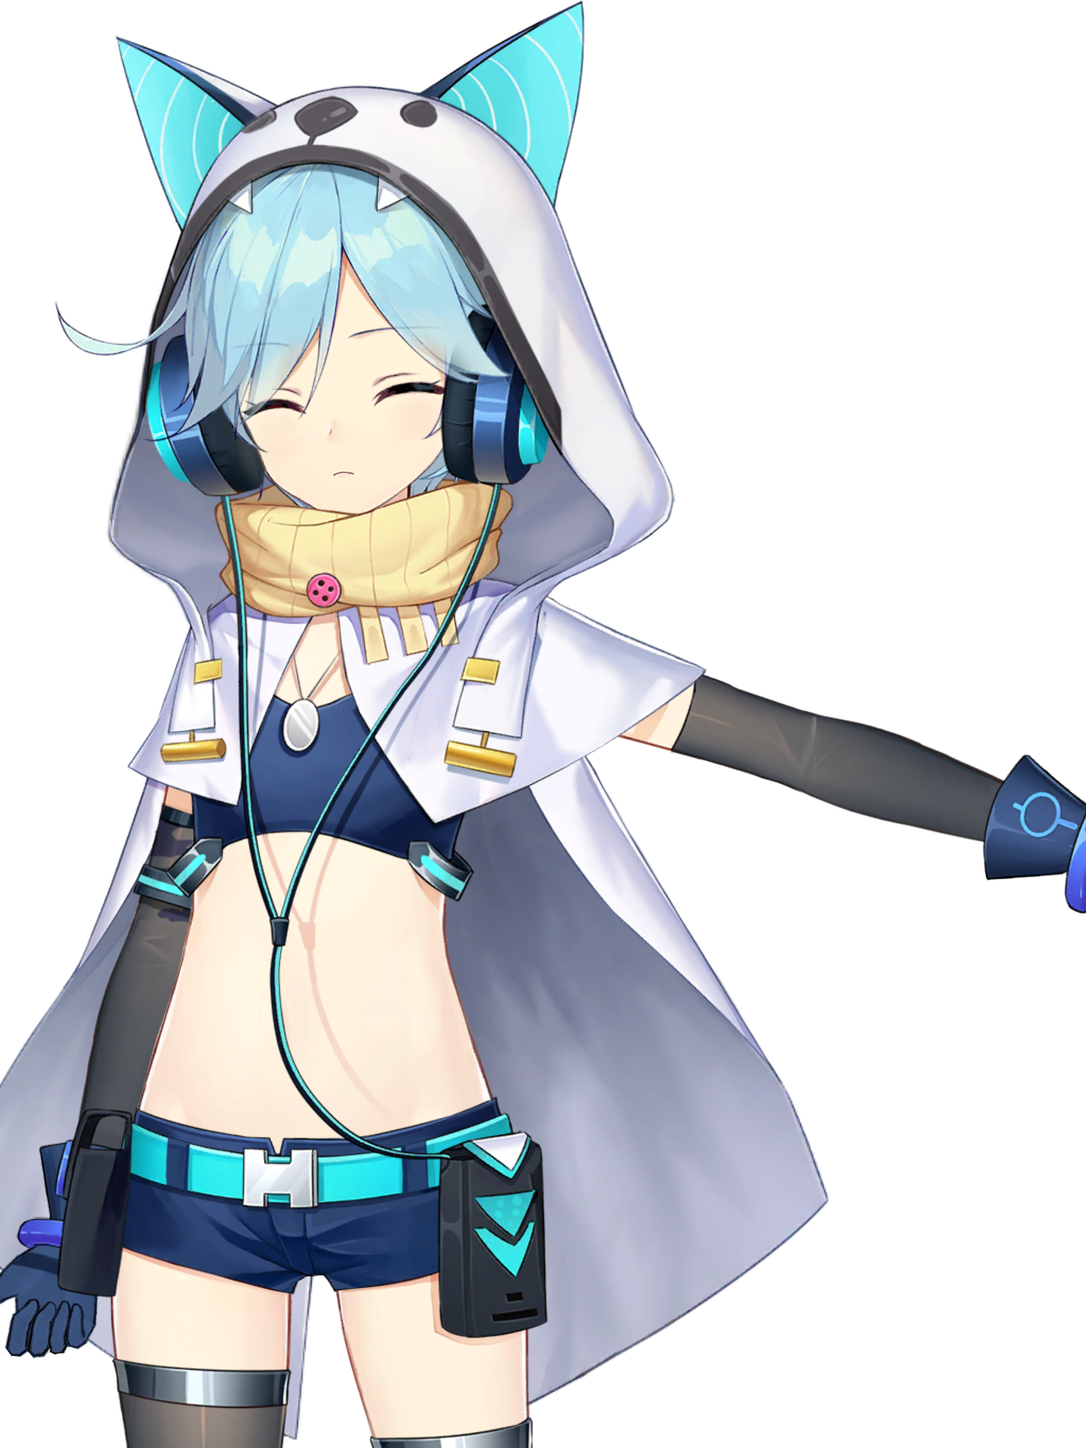
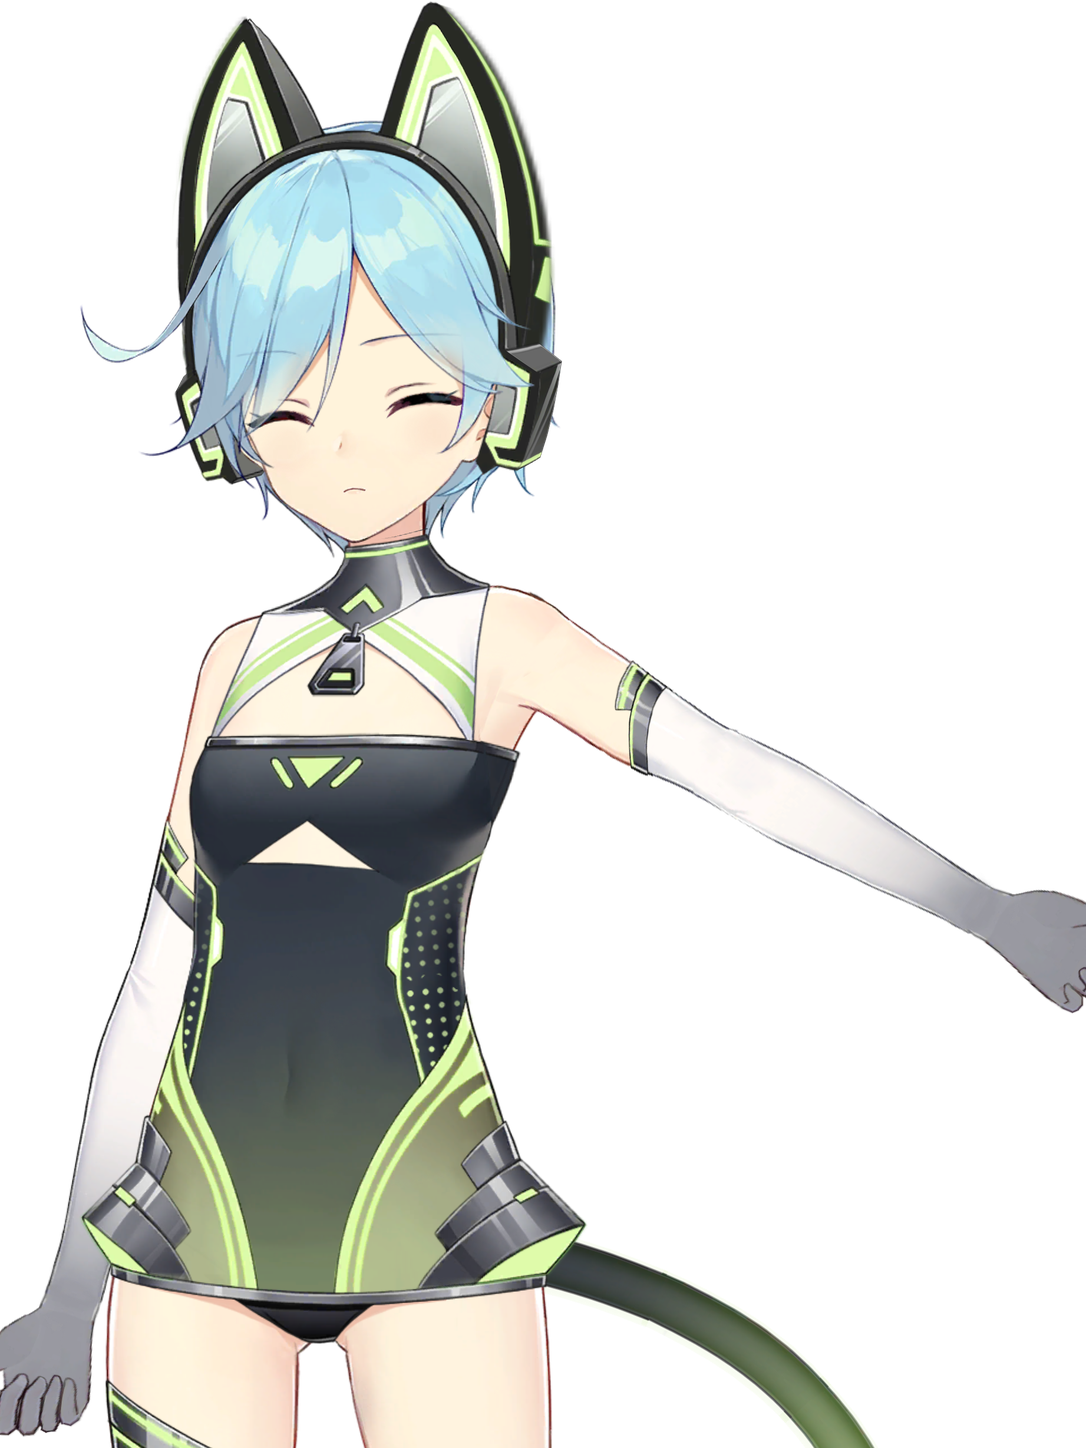
feat(art): 收录 24 套衣柜表，扑爪换第二套猫耳战术装
衣柜表 docs/v4/art/wardrobe.json + 联络表 docs/v4/art/wardrobe.png，素材库.md 新增第十二节。
猫的两张不再共用一套：cat_bust 留 l2d06 连帽衫，cat_paws 换 l2d07 战术猫耳（猫耳耳机＋长尾，招手把手臂真伸出去）。
regions.json 里 cat_paws 的 flower 锚点改记胸前吊牌，eyes/paws 重估。

diff --git a/二次创作/说明/素材库.md b/二次创作/说明/素材库.md
@@ -202,3 +202,46 @@ python tools/plate_cut.py --in out\_lib\plate_cat.png --out out\_lib\try_cat.png
 **按五官对脸的精配还没做**，`art_check` 也会报「位移过大」——先认这条账。
 
 **代价（记在案）**：原片是刻意无脸的三墨剪影，现在是全彩原图、五官清楚，片子「无脸」的设定到此结束。
+
+## 十二、衣柜表（她的 24 套，2026-11-17 收录）
+
+索引与图：`docs/v4/art/wardrobe.json`（机器可读，含每套的 label / look / usedBy）、
+`docs/v4/art/wardrobe.png`（24 格联络表，带编号）。
+素材库本体仍然是 `assets/live2d_lib`（目录联结指向 `【Live2D】（23.12.21）`）。
+
+**为什么要有这张表**：库里 24 套的目录名是 `l2d01.u` 这种编号，翻目录根本认不出哪套是猫耳、哪套是少年。
+先把 24 套各渲一张正身图、编号成表，选角就变成"看表挑"，不必每次重渲。
+
+### 现在用到的
+
+| 画板 | 套 | 说明 |
+| --- | --- | --- |
+| `f_bust` / `f_eye` / `f_reach` | `l2d16` 西洋棋 | 本片正身，三张必须同一套（眼特写是同一张脸切出来的） |
+| `f_profile` | `l2d5017` 誓约终 | `celian` 动作 t=0.3，库里唯一真侧脸 |
+| `boy_bust` | `l2d01` 私服 | 橙格纹连帽＋短发，读作少年 |
+| `man_bust` | `l2d19` 警署 | 全覆式头盔＋面罩，天然无脸 |
+| `cat_bust` | `l2d06` 猫耳连帽衫 | 白连帽＋青蓝猫耳＋耳机＋围巾 |
+| `cat_paws` | `l2d07` 战术猫耳 | **第二套猫**：黑绿战术连身＋猫耳耳机＋长尾，招手定格把手臂真伸出去 |
+
+猫的两张现在**不是同一件衣服**了——06 是软乎乎的连帽衫（"purr"那句的脸），07 是带尾巴的战术装
+（"develop"那句伸出来的爪）。同一角色、两种衣服，猫的形没丢。
+
+### 还能往哪儿加衣服（备选，未启用）
+
+| 用途 | 套 | 理由 |
+| --- | --- | --- |
+| 更"重"的侧身 | `l2d09` 污染者 | 紫黑破布＋绷带，气场压得住"be god"段 |
+| 更暖的日常 | `l2d27` 菱格毛衣 | 米色毛衣＋贝雷帽，适合"Then I will give you"这类软句 |
+| 更冷的对照 | `l2d33` 黑灰制服 | 与西洋棋的礼装形成冷暖对照 |
+| 节日/回忆 | `l2d8001` 赏月 | 和服＋纸伞，自带月亮道具 |
+
+### 用法（三步）
+
+```powershell
+node tools/live2d_art.mjs render --model "高奈利亚/l2d07.u" --out out\_lib\plate_paws7.png --w 3000 --h 3000 --pad 0.96 --motion motions/Mgirl02_dazhaohu.motion3.json --t 0.9
+python tools/plate_cut.py --in out\_lib\plate_paws7.png --out assets\character\cat_paws.png --zoom 0.9 --top 0.0
+# 然后在 assets/character/raw.json 里确认画板名在名单内 → 引擎 printRaw 原图直印
+```
+
+**踩过的坑**：`l2d07` 这件是紧身战术连身，`--zoom` 要比 06 小一点才不会把尾巴切掉；
+`l2d80011.u` 只有纸伞部件，渲出来是一把伞，不可当人物用；`l2d00.u` 是素体，别误用。
